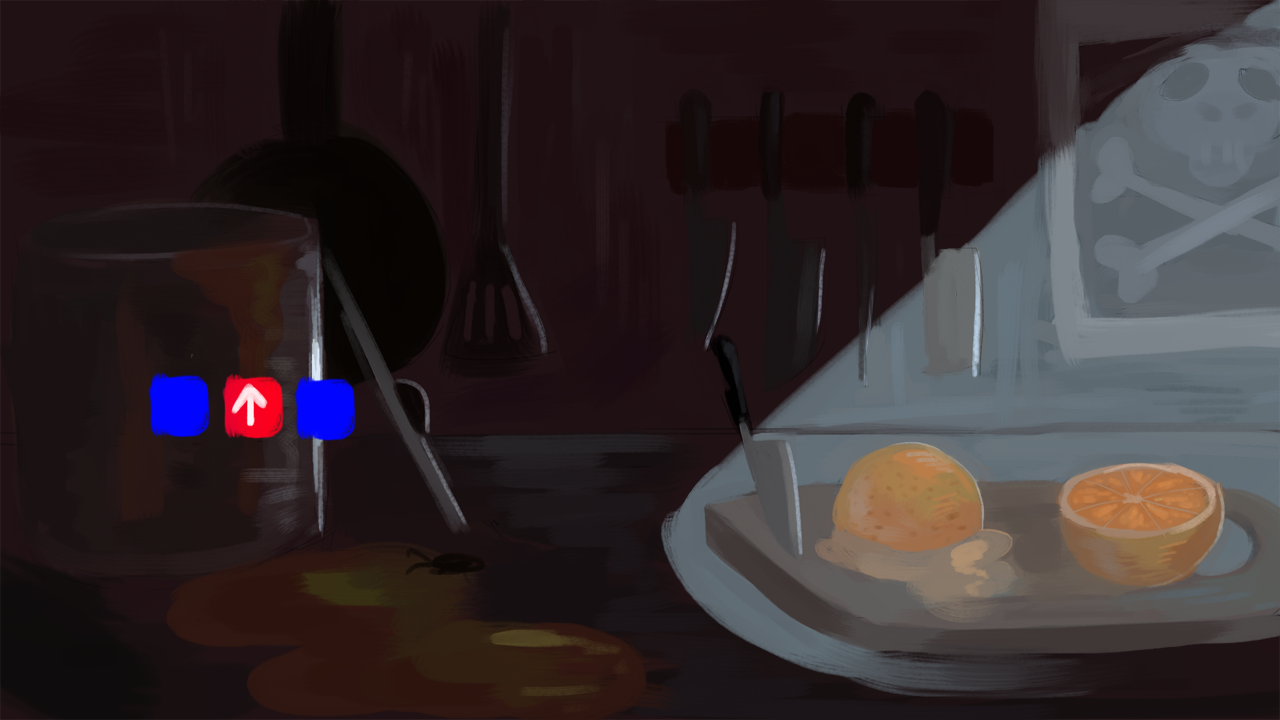
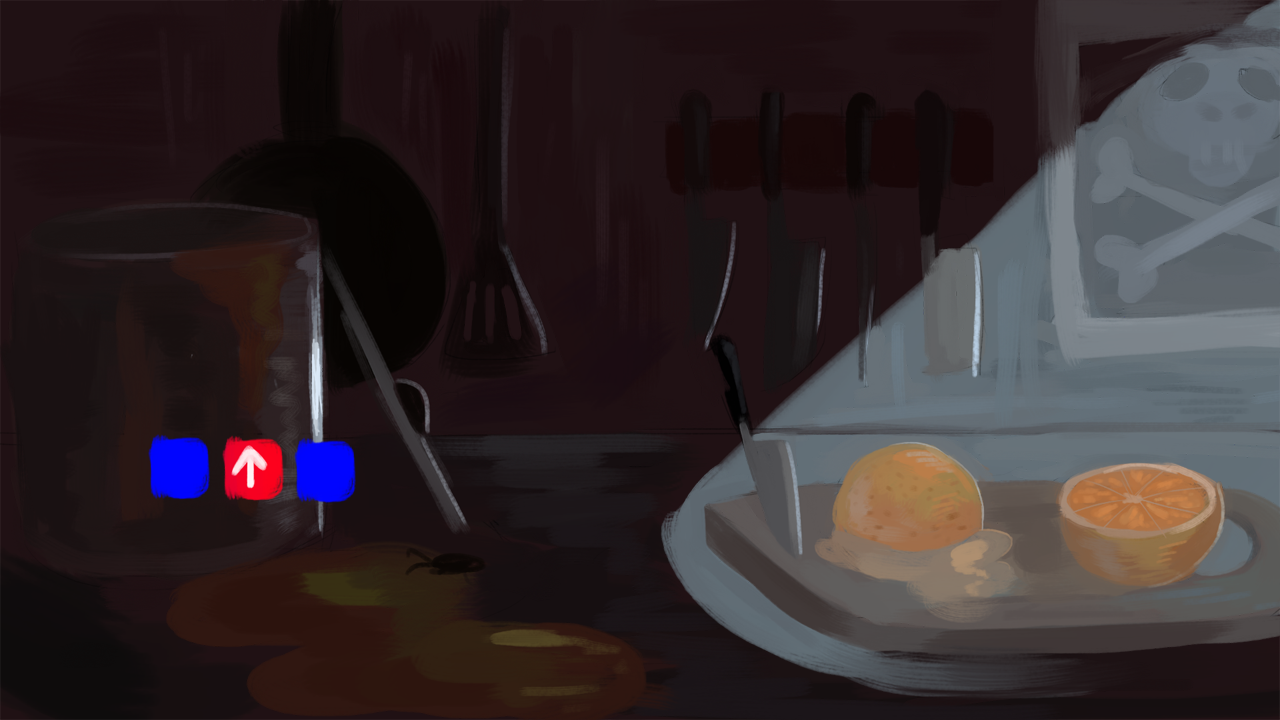
fixed and add assets

Changed region(s): [[0.0938, 0.5194, 0.2812, 0.7028]]

diff --git a/js/LevelMaster.js b/js/LevelMaster.js
@@ -29,13 +29,14 @@ LevelMaster = function(game, data) {
 	this.levelSequenceCounter = 0;
 	//this.levelSequence = generateOrder(this.GAME_ARRAY_LONG);
     this.levelSequence = [0, 1, 2, 3, 4, 5, 6];
-	//this.levelSequence = [6];
+	//this.levelSequence = [5];
+
 
 
 	// set initial game data
 	if (true || !data) {
 		data = {
-		lives: 300,
+		lives: 3,
 		level: 1,
 		numGameTypes: 7,
 
@@ -43,7 +44,7 @@ LevelMaster = function(game, data) {
 		needTransition: false,
 		failed: false,
 		reachedEnd: false,
-		decreasedLife: false,
+		decreasedLife: false
 		};
 	}
 	

diff --git a/js/GameManager.js b/js/GameManager.js
@@ -106,6 +106,7 @@ GameManager.prototype = {
 	},
 
 	update: function() {
+
     },
 
 }
@@ -189,7 +190,7 @@ Hud.prototype = {
             var y = 0.02 * this.game.height;
             this.lifeCount.push(this.game.add.sprite(x, y, 'life'));
         }*/
-        for(var i = 0; i < gm.levelMaster.MAX_LIVES; ++i){
+        for(var i = 0; i < gm.levelMaster.data.lives; ++i){
             var x = 0.87 * this.game.width - i * 125;
             var y = 0.02 * this.game.height;
             var l = this.lifegroup.create(x, y, 'life', 0);

diff --git a/js/KeyMatching.js b/js/KeyMatching.js
@@ -7,11 +7,11 @@ KeyMatching = function(game, data) {
     this.spritesheetPath = 'assets/avatars.png'
     this.frameWidth = 180;
     this.frameHeight = 200;
-    this.dframeWidth = 32;
-    this.dframeHeight = 32;
+    this.dframeWidth = 74;
+    this.dframeHeight = 74;
 
-    this.avatarsY = 0.35*game.height;
-    this.directionsY = 0.5*game.height;
+    this.avatarsY = 0.45*game.height;
+    this.directionsY = 0.7*game.height;
     this.firstPlayerX = 0.20,
     this.secondPlayerX = 0.40,
     this.thirdPlayerX = 0.60,

diff --git a/js/CollisionGame.js b/js/CollisionGame.js
@@ -25,7 +25,7 @@ CollisionGame.prototype = {
 
         //this.game.load.spritesheet('enemy', 'assets/ghost.png', 32, 48);
         this.game.load.spritesheet('enemy', 'assets/ghostrun.png', 79, 100);
-        this.game.load.image('jumpbk', 'assets/jumpbg2.png');
+        this.game.load.image('jumpbk', 'assets/jumpbg.png');
 
         this.load.audio('blueberryJump', ['assets/sounds/blueberryJump3.wav']);
         this.load.audio('appleJump', ['assets/sounds/appleJump1.wav']);

diff --git a/js/ButtonMashing.js b/js/ButtonMashing.js
@@ -8,11 +8,11 @@ ButtonMashing = function(game, data) {
     this.spritesheetPath = 'assets/avatars.png'
     this.frameWidth = 180;
     this.frameHeight = 200;
-    this.dframeWidth = 32;
-    this.dframeHeight = 32;
+    this.dframeWidth = 74;
+    this.dframeHeight = 74;
 
     this.avatarsY = 0.4*HEIGHT;
-    this.directionsY = 0.55*HEIGHT;
+    this.directionsY = 0.6*HEIGHT;
     this.firstPlayerX = 0.20,
     this.secondPlayerX = 0.40,
     this.thirdPlayerX = 0.60,
